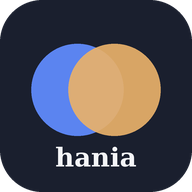
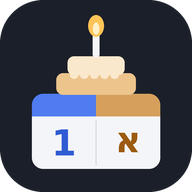
אייקון חדש: עוגה על יומן עברי ולועזי
Claude-Session: https://claude.ai/code/session_01FPShnU5S674H3rZq8QC9oC

diff --git a/sw.js b/sw.js
@@ -1,5 +1,5 @@
 /* hania גיל – offline cache and background birthday check */
-const VERSION = 'hania-gil-v1';
+const VERSION = 'hania-gil-v2';
 const SHELL = ['./', 'index.html', 'cal.js', 'manifest.webmanifest', 'icons/icon-192.png', 'icons/icon-512.png', 'icons/apple-touch-icon.png'];
 importScripts('cal.js'); // defines self.Cal
 
